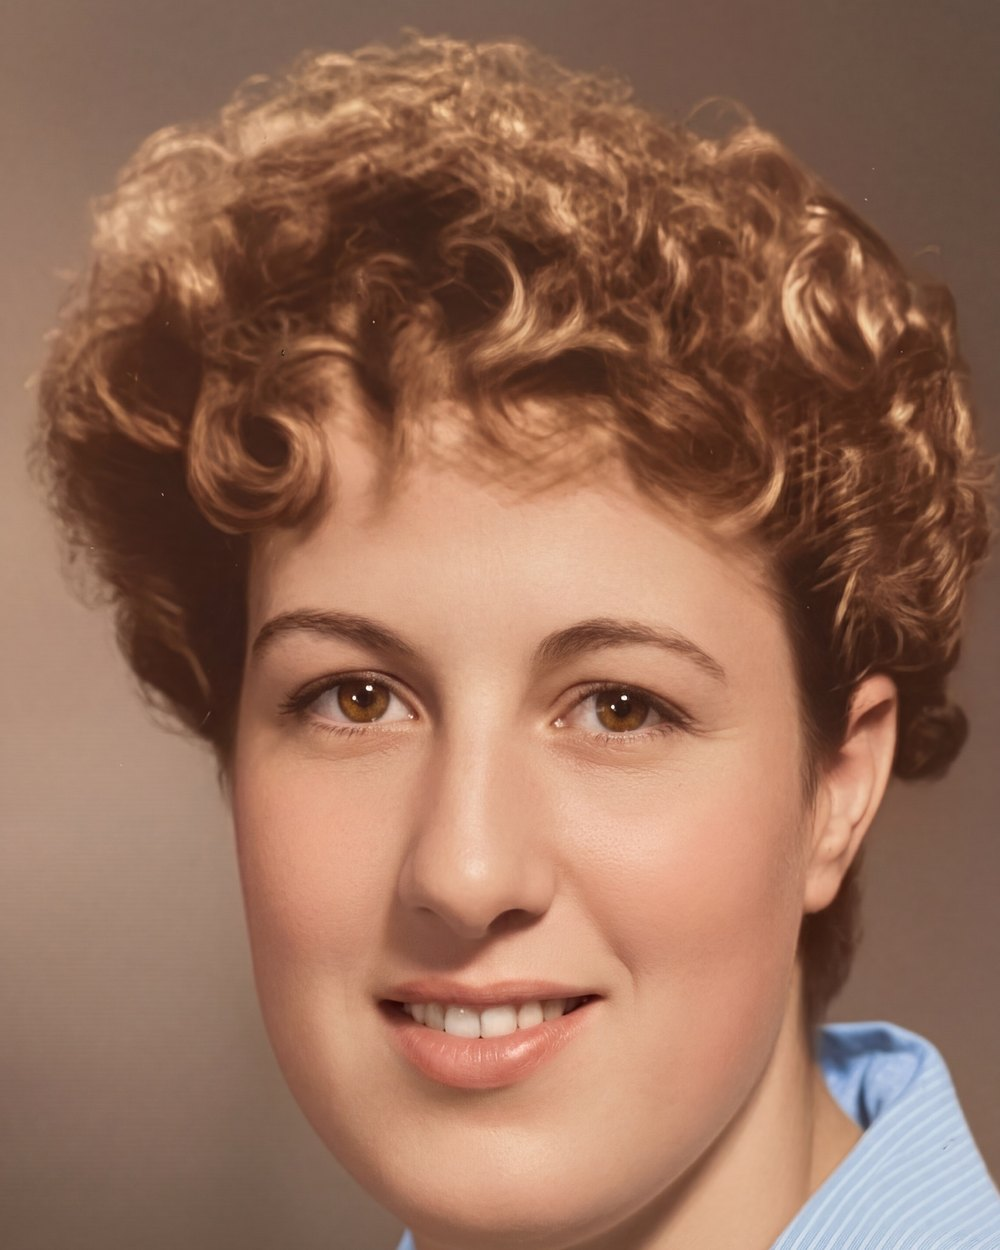
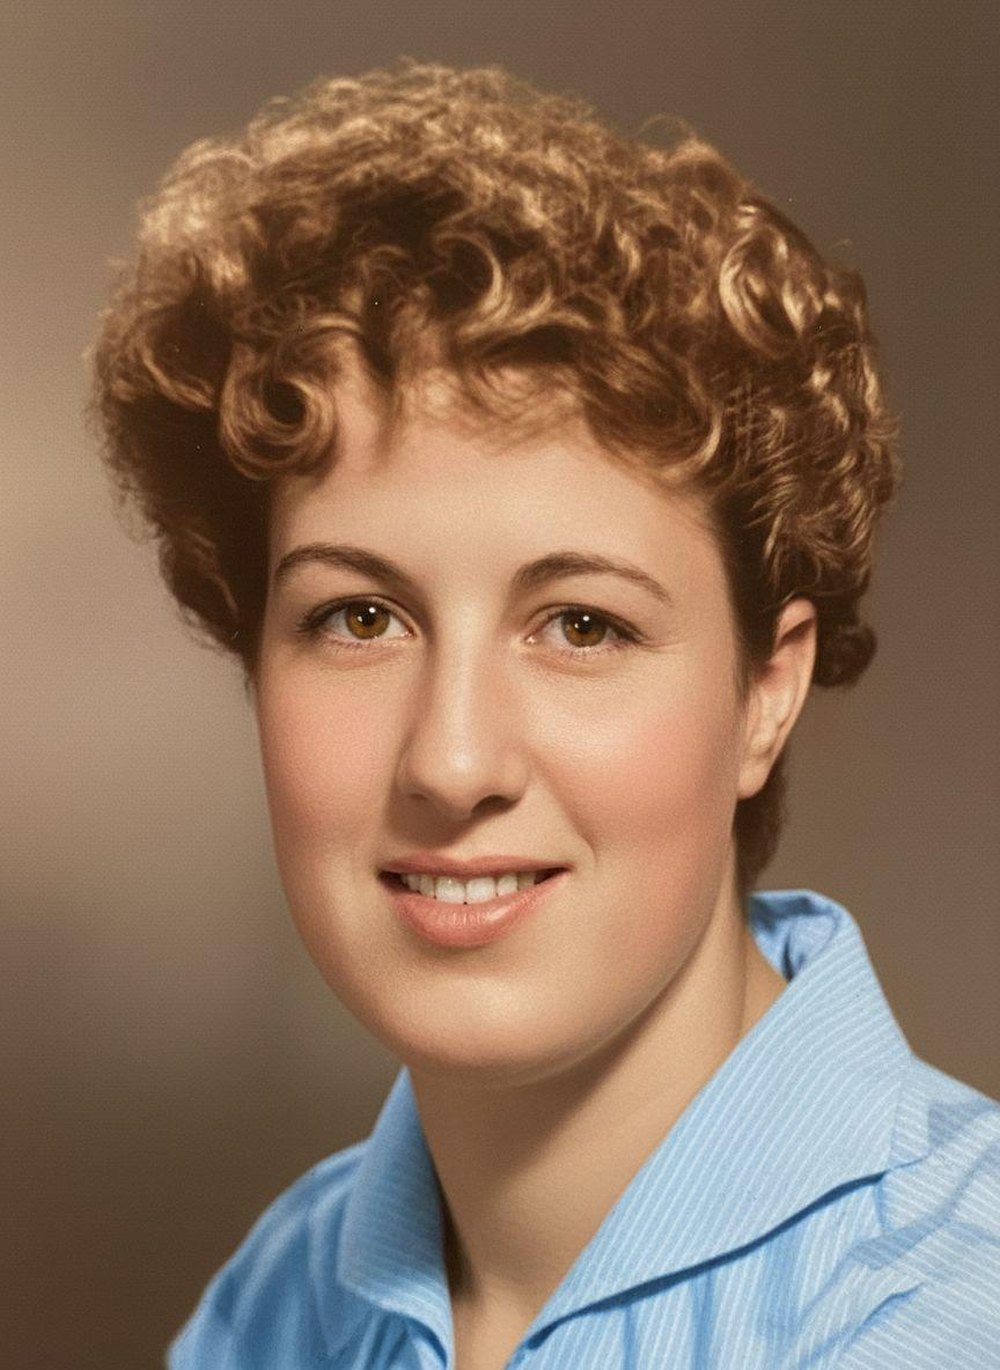
Replace mother's photo with a wider portrait that fits fully
Claude-Session: https://claude.ai/code/session_019GhWotLt9VZX8qhbn6AYD1

diff --git a/sw.js b/sw.js
@@ -1,5 +1,5 @@
 // Service worker – מאפשר עבודה ללא קליטה (בבית העלמין)
-const CACHE = 'azkara-v6';
+const CACHE = 'azkara-v7';
 const ASSETS = [
   './',
   './index.html',
